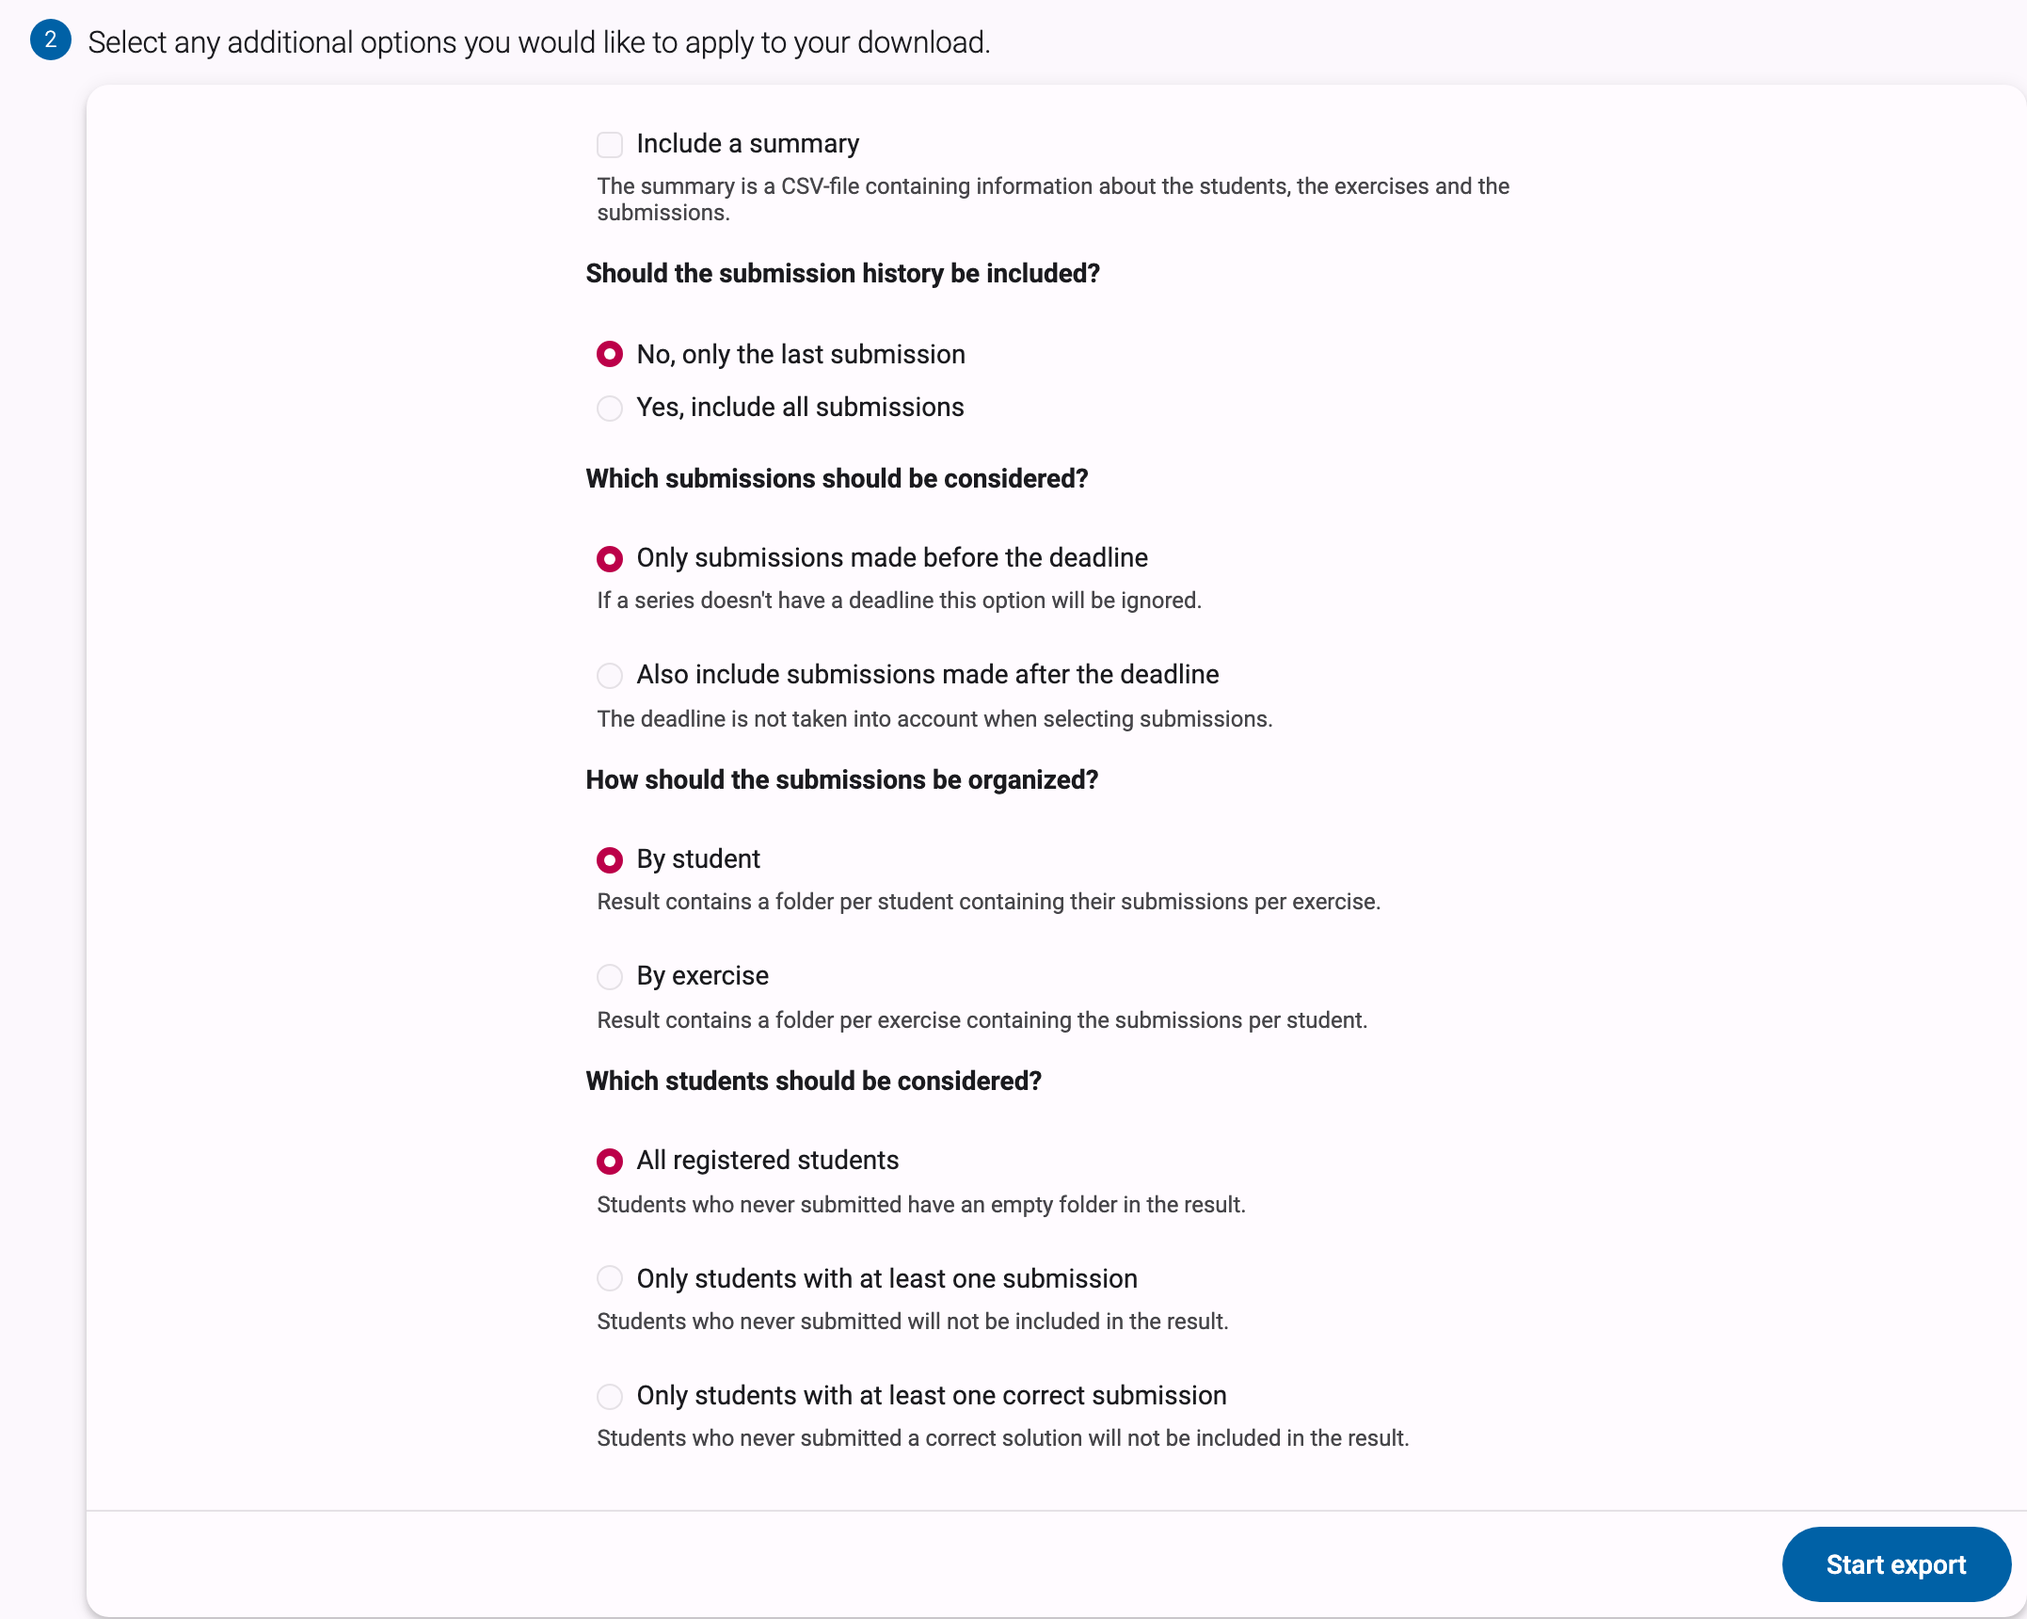
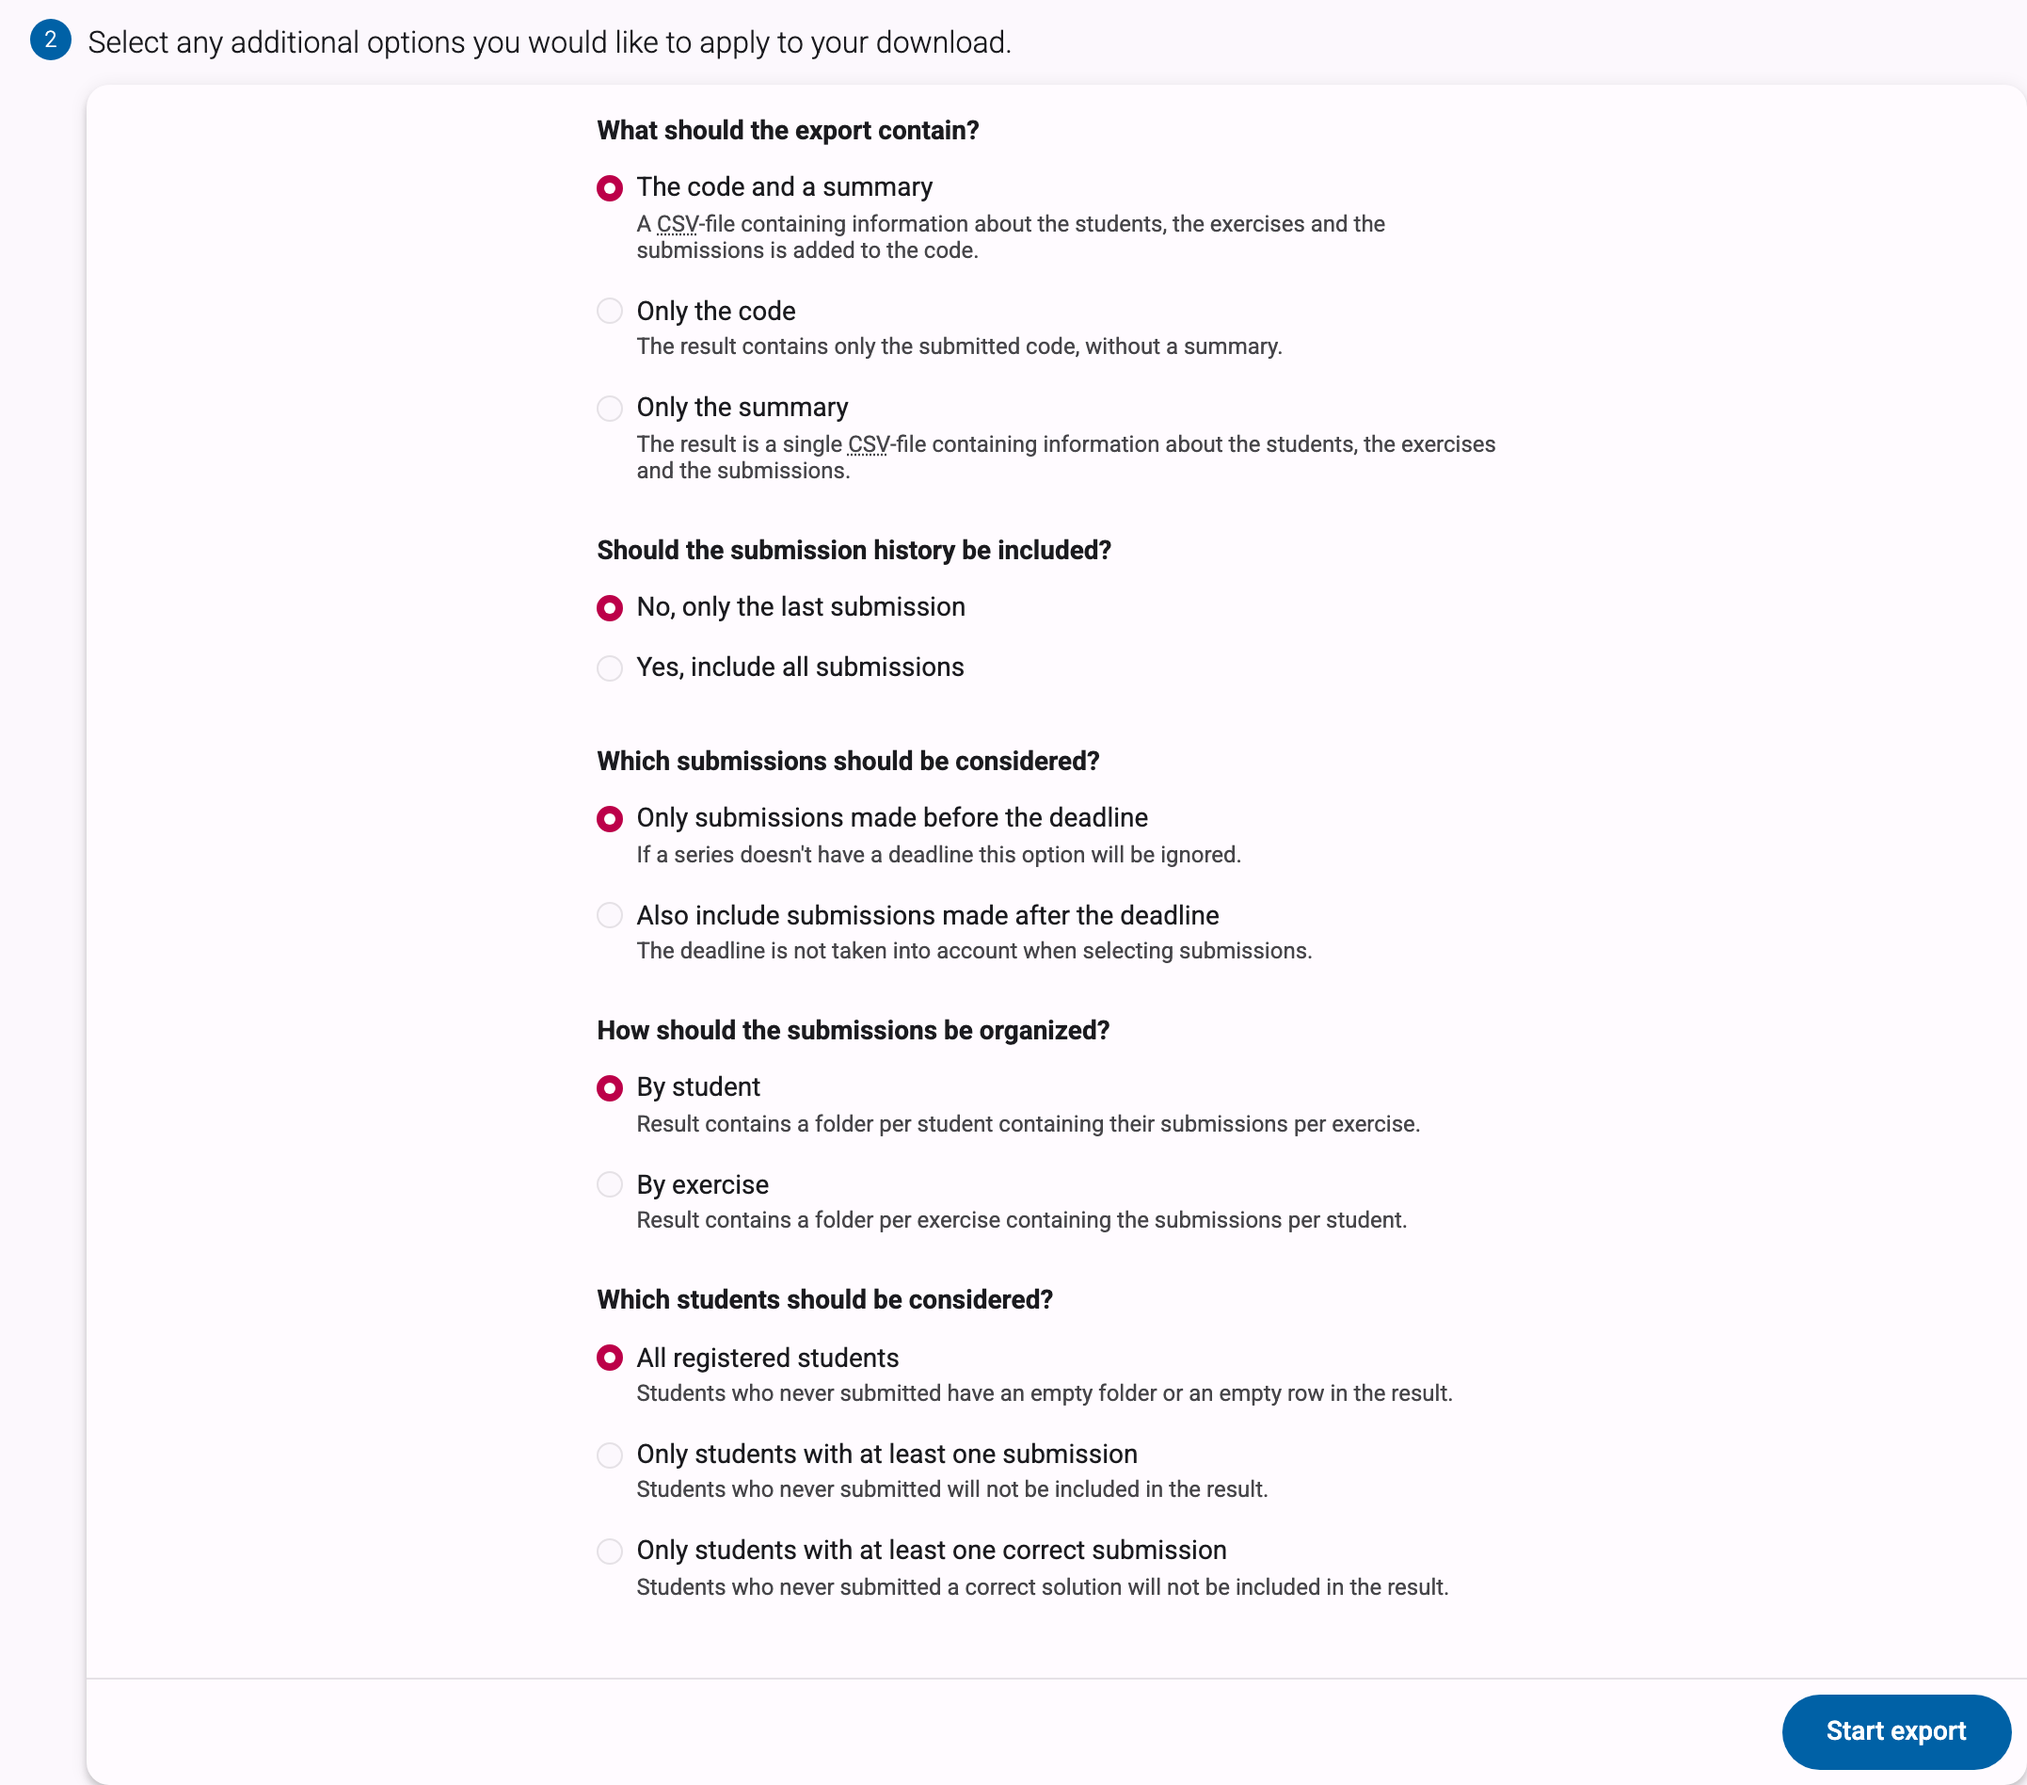
Describe the export contents choice in the series export guide
The export form asks what the export should contain (the code and a
summary, only the code, or only the summary) instead of offering an
"Include a summary" checkbox, since dodona-edu/dodona#9923. Describe the
choice, the summary-only CSV and the submission-history option that
gives a row per submission, in English and Dutch, and re-shoot the
export options screenshots.

Changed region(s): [[0.2799, 0.0616, 0.7465, 0.8936], [0.0311, 0.0, 0.4977, 0.0308], [0.8709, 0.9244, 0.9954, 1.0]]

diff --git a/nl/guides/teachers/series-export-and-retest/index.md b/nl/guides/teachers/series-export-and-retest/index.md
@@ -11,7 +11,7 @@ Op deze pagina overlopen we ze allebei.
 
 ## Oefeningenreeks oplossingen exporteren
 
-In het actiemenu van een reeks kan je als lesgever kiezen om de ingezonden code van je studenten te exporteren als een zip-bestand. Dit is bijvoorbeeld handig als je liever op papier verbetert en de code wil afdrukken.
+In het actiemenu van een reeks kan je als lesgever kiezen om de ingezonden code van je studenten te exporteren als een zip-bestand, of enkel een samenvatting van hun oplossingen als csv-bestand. De code is bijvoorbeeld handig als je liever op papier verbetert en ze wil afdrukken.
 
 ![Onderste balk van de reekskaart met het geopende actiemenu en de rij Oplossingen van studenten exporteren](./series-export-action-nl.png)
 
@@ -21,11 +21,11 @@ Dit brengt je naar een exporteerpagina waar je eerst gevraagd wordt om de oefeni
 
 Als je ze allemaal wenst te downloaden, dan kies je het selectievakje in de hoofding van de tabel. Daarna klik je op `Volgende stap` om verder te gaan.
 
-Vervolgens kan je verschillende opties aanvinken die de inhoud van de export beïnvloeden. Je kan een samenvattende csv verkrijgen, kiezen of je alle oplossingen of enkel de laatste wil, of er rekening gehouden moet worden met de deadline, of de bestanden per student of per oefening gegroepeerd moeten worden en welke studenten meegerekend moeten worden.
+Vervolgens kan je verschillende opties kiezen die de inhoud van de export beïnvloeden. Bij `Wat moet de export bevatten?` kies je tussen `De code en een samenvatting` (de standaardkeuze), `Enkel de code` en `Enkel de samenvatting`. Je kan ook kiezen of je alle oplossingen of enkel de laatste wil, of er rekening gehouden moet worden met de deadline, of de bestanden per student of per oefening gegroepeerd moeten worden en welke studenten meegerekend moeten worden. De vraag over de groepering verdwijnt als je enkel de samenvatting wil.
 
-![Exporteerwizard stap 2: aanvinkbare opties met de knop Start export](./export-options-nl.png)
+![Exporteerwizard stap 2: de vraag wat de export moet bevatten, gevolgd door de andere opties en de knop Start export](./export-options-nl.png)
 
-Klik op `Start export` om de download te starten. Op dat moment worden alle ingediende oplossingen gezipt, dit kan even duren. Daarna wordt de download automatisch gestart.
+Klik op `Start export` om de download te starten. Op dat moment worden de ingediende oplossingen gezipt, dit kan even duren. Daarna wordt de download automatisch gestart. Met `Enkel de samenvatting` krijg je in plaats van een zip-bestand één csv-bestand dat naar de reeks genoemd is. Dit gaat sneller, omdat er geen code ingelezen moet worden. De deadline, de indiengeschiedenis en de studentenopties bepalen welke rijen erin staan. Wil je een rij voor elke oplossing en niet enkel voor de laatste, antwoord dan op `Wil je de indiengeschiedenis downloaden?` met `Ja, alle oplossingen`.
 
 ![Exporteerwizard stap 3 met het voortgangsbericht "oplossingen aan het voorbereiden om te downloaden"](./export-started-nl.png)
 

diff --git a/en/guides/teachers/series-export-and-retest/index.md b/en/guides/teachers/series-export-and-retest/index.md
@@ -11,8 +11,8 @@ This page walks you through both.
 
 ## Export exercise series submissions
 
-In the action menu of a series, you as a teacher can choose to export the submitted code of your students as a zip file.
-This can be useful if you prefer to grade on paper and want to print the code.
+In the action menu of a series, you as a teacher can choose to export the submitted code of your students as a zip file, or only a summary of their submissions as a csv file.
+The code can be useful if you prefer to grade on paper and want to print it.
 
 ![Series card bottom bar with the open action menu showing the Export student submissions row](./series-export-action-en.png)
 
@@ -22,14 +22,19 @@ This will take you to an export page where you will first be asked to select the
 
 If you want to download all of them, select the checkbox in the table header. Then click `Next step` to continue.
 
-Next, you can check various options that affect the content of the export.
-You can obtain a summary csv, choose whether you want all solutions or only the latest ones, whether the deadline should be considered,
+Next, you can choose various options that affect the content of the export.
+Under `What should the export contain?` you choose between `The code and a summary` (the default), `Only the code` and `Only the summary`.
+You can also choose whether you want all solutions or only the latest ones, whether the deadline should be considered,
 whether the files should be grouped per student or per exercise, and which students should be included.
+The grouping question is hidden when you only want the summary.
 
-![Export wizard step 2: option checkboxes and radio buttons with the Start export button](./export-options-en.png)
+![Export wizard step 2: the question what the export should contain, followed by the other options and the Start export button](./export-options-en.png)
 
 Click `Start export` to start the download.
-At that moment, all submitted solutions will be zipped, which may take a moment. Then the download will start automatically.
+At that moment, the submitted solutions are zipped, which may take a moment. Then the download will start automatically.
+With `Only the summary` you get a single csv file named after the series instead of a zip file. This is faster, because no code needs to be read.
+The deadline, the submission history and the student options decide which rows it contains.
+If you want a row for every submission and not only the last one, answer `Should the submission history be included?` with `Yes, include all submissions`.
 
 ![Export wizard step 3 showing the "preparing submissions for download" progress message](./export-started-en.png)
 

diff --git a/nl/guides/teachers/exercise-series-management/index.md b/nl/guides/teachers/exercise-series-management/index.md
@@ -102,7 +102,7 @@ Onderaan de reeks vind je enkele handige acties die cursusbeheerders kunnen uitv
 
   Klik op het icoontje van een indienstatus om naar de oplossing te navigeren die gebruikt werd om de indienstatus te bepalen (als de cursusgebruiker effectief een oplossing heeft ingediend op basis waarvan de indienstatus kon bepaald worden). Je kan in dit overzicht ook filteren op studenten die aan minstens één activiteit begonnen zijn, leesactiviteiten verbergen, en zoeken op naam of studentlabel.
 
-* `Oplossingen van studenten exporteren`: deze actie stelt je in staat om de ingezonden oplossingen van studenten voor de oefeningen in de reeks te [exporteren](../series-export-and-retest/#oefeningenreeks-oplossingen-exporteren) als zip-bestand.
+* `Oplossingen van studenten exporteren`: deze actie stelt je in staat om de ingezonden oplossingen van studenten voor de oefeningen in de reeks te [exporteren](../series-export-and-retest/#oefeningenreeks-oplossingen-exporteren) als zip-bestand of samenvattende csv.
 
 * `Oplossingen hertesten`: deze actie [hertest](../series-export-and-retest/#oplossing-hertesten) alle oplossingen die cursusgebruikers ingediend hebben voor oefeningen van de oefeningenreeks. Dit kan nuttig zijn als je bijvoorbeeld een aantal testen hebt toegevoegd of aangepast en je de al ingediende oplossingen opnieuw wil testen.
 

diff --git a/nl/guides/teachers/index.md b/nl/guides/teachers/index.md
@@ -13,7 +13,7 @@ Deze handleidingen behandelen alles wat je als leerkracht nodig hebt, van je eer
 2. [Een nieuwe cursus aanmaken](./creating-a-course/): start van een lege cursus of kopieer een bestaande, en bepaal hoe studenten zich registreren.
 3. [Oefeningenreeksenbeheer](./exercise-series-management/): bouw het leerpad van je cursus door reeksen aan te maken, er oefeningen aan toe te voegen en ze te groeperen in secties.
 4. [Reeksinstellingen](./series-settings/): een referentie voor alle instellingen van een reeks, zoals deadlines, zichtbaarheid en geheime links.
-5. [Oplossingen exporteren en hertesten](./series-export-and-retest/): exporteer de oplossingen van een reeks als zip-bestand of hertest ze na een aanpassing aan een oefening.
+5. [Oplossingen exporteren en hertesten](./series-export-and-retest/): exporteer de oplossingen van een reeks als zip-bestand of samenvattende csv, of hertest ze na een aanpassing aan een oefening.
 6. [Toetsen en examens](./assessments/): neem een toets of examen af met een toetsreeks, volg de sessies op en geef de resultaten vrij.
 7. [Cursusbeheer](./course-management/): beheer beheerdersrechten, cursusinstellingen, vragen en oplossingen.
 8. [Gebruikersbeheer](./user-management/): volg registraties op, beheer rechten en organiseer studenten met labels.

diff --git a/en/guides/teachers/index.md b/en/guides/teachers/index.md
@@ -13,7 +13,7 @@ These guides cover everything you need as a teacher, from your first sign-in to 
 2. [Creating a course](./creating-a-course/): start from an empty course or copy an existing one, and control how students register.
 3. [Exercise series management](./exercise-series-management/): build the learning path of your course by creating series, filling them with exercises, and grouping them into sections.
 4. [Series settings](./series-settings/): a reference for all series settings, including deadlines, visibility, and secret links.
-5. [Series export and retest](./series-export-and-retest/): export the submissions of a series as a zip file or retest them after changing an exercise.
+5. [Series export and retest](./series-export-and-retest/): export the submissions of a series as a zip file or summary csv, or retest them after changing an exercise.
 6. [Assessments and exams](./assessments/): run a test or exam with an assessment series, monitor sessions, and publish the results.
 7. [Course management](./course-management/): manage administrative rights, course settings, questions, and submissions.
 8. [User management](./user-management/): follow up on registrations, manage permissions, and organise students with labels.

diff --git a/en/guides/teachers/exercise-series-management/index.md b/en/guides/teachers/exercise-series-management/index.md
@@ -116,7 +116,7 @@ The main actions are `Evaluate series` and `Series scoresheet`; other actions ca
   (if the course user has indeed submitted a solution based on which the submission status could be determined).
   You can also filter by students who have started at least one activity, hide reading activities, and search by name or student labels in this overview.
 
-* `Export student submissions`: This action allows you to [export](../series-export-and-retest/#export-exercise-series-submissions) the submitted solutions of students for the exercises in the series as a zip file.
+* `Export student submissions`: This action allows you to [export](../series-export-and-retest/#export-exercise-series-submissions) the submitted solutions of students for the exercises in the series as a zip file or a summary csv.
 
 * `Retest submissions`: This action [retests](../series-export-and-retest/#retest-submissions) all solutions that course users have submitted for exercises in the exercise series.
   This can be useful if, for example, you have added or modified a number of tests and want to retest the already submitted solutions.
